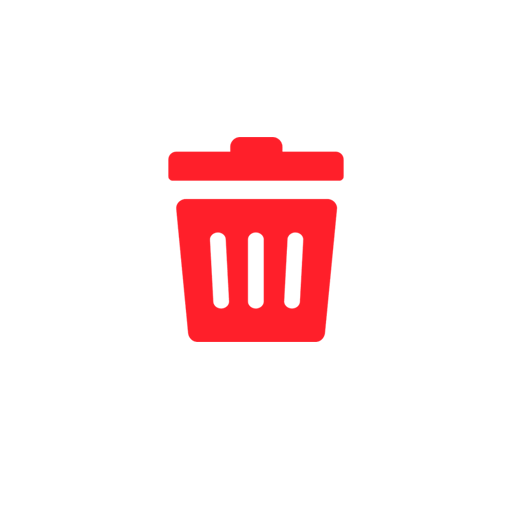
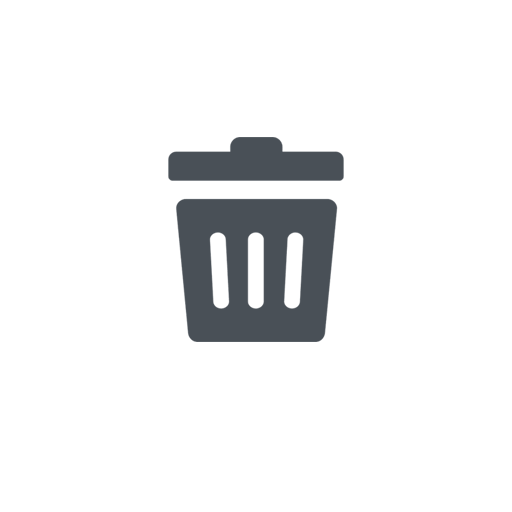
css

Changed region(s): [[0.3125, 0.25, 0.6875, 0.6875]]

diff --git a/src/Components/TopPanel/TopPanel.css b/src/Components/TopPanel/TopPanel.css
@@ -7,7 +7,7 @@
     border: 3px solid white;
     background: none;
     font-weight: 600;
-    border-radius: 10px;
+    border-radius: 5px;
     margin: 0px 5px;
 }
 
@@ -17,14 +17,9 @@
 }
 
 .resetButton {
-    border-color: #ffba08 !important;
-    color: #ffba08;
-}
-
-.resetButton:hover,
-.saveButton:hover {
-    cursor: pointer;
-    background-color: #343a40;
+    border-color: #495057 !important;
+    background-color: #495057!important;
+    color: #e9ecef;
 }
 
 .isActivefalse {

diff --git a/src/Components/TopPanel/TopPanel.js b/src/Components/TopPanel/TopPanel.js
@@ -29,8 +29,8 @@ let TopPanel = (props) => {
                 </div>
             </div>
           
-            <button onClick={e => setActive(true)} className="saveButton">Save Board</button>
-            <button onClick={clear} className="resetButton">Clear Board</button>
+            <button onClick={e => setActive(true)} className="saveButton">Save</button>
+            <button onClick={clear} className="resetButton">Clear</button>
         </div>
     )
 }

diff --git a/src/Components/Card/Card.css b/src/Components/Card/Card.css
@@ -57,7 +57,7 @@
 }
 
 .outHex {
-    background: #ff1f2a;
+    background: #495057;
     clip-path: polygon(0% 25%, 0% 75%, 50% 100%, 100% 75%, 100% 25%, 50% 0%);
     height: calc(53px * 1.1547);
     width: 53px;

diff --git a/src/Components/Grid/Grid.css b/src/Components/Grid/Grid.css
@@ -47,7 +47,7 @@
 }
 
 .level0 {
-    background: #adb5bd;
+    background: #43494f ;
 }
 
 .level1 {
